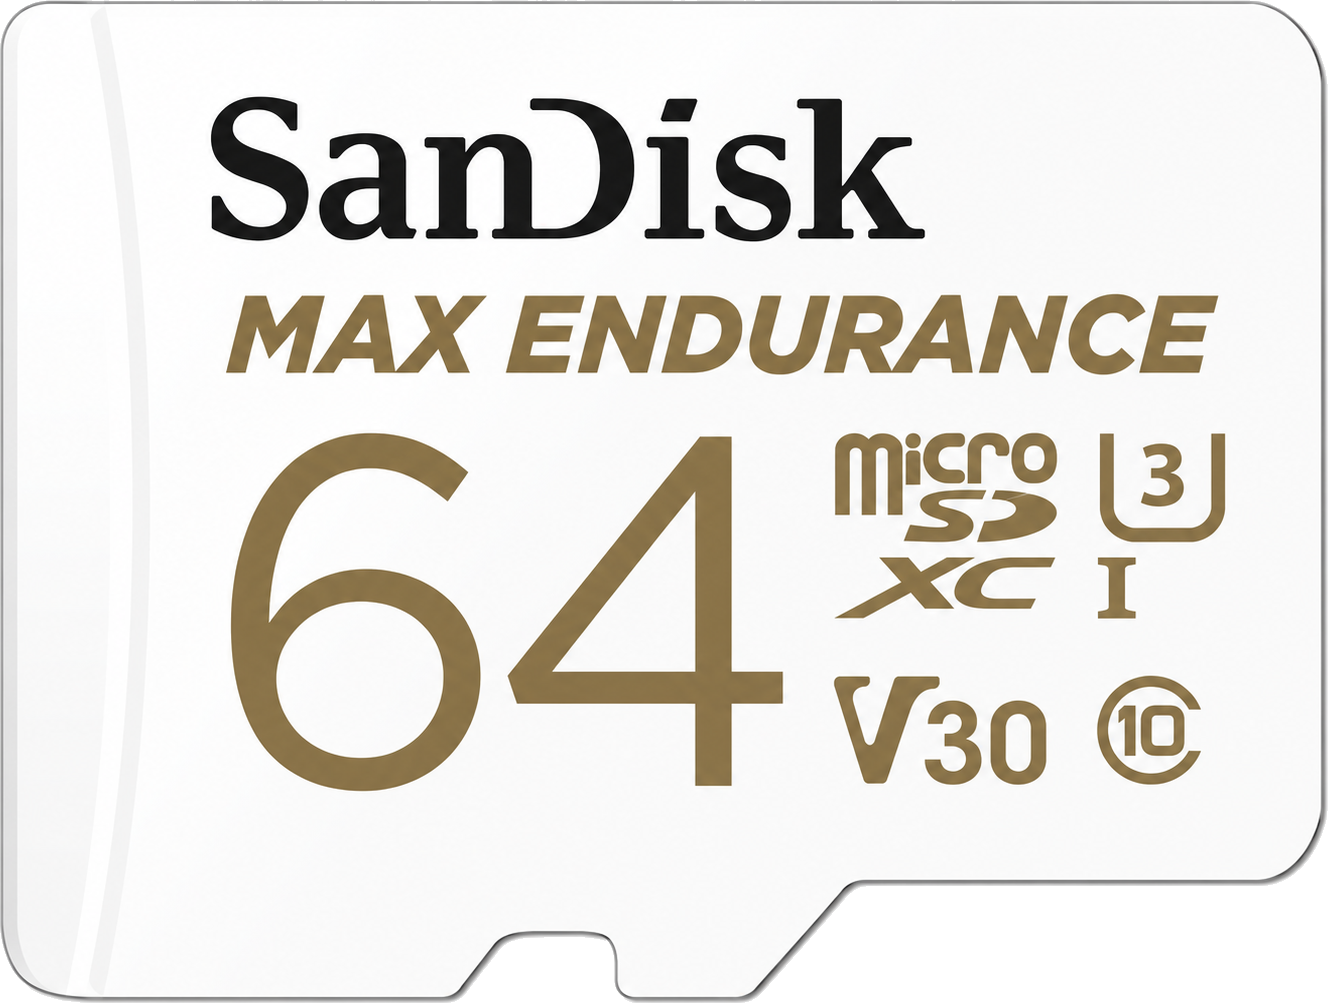
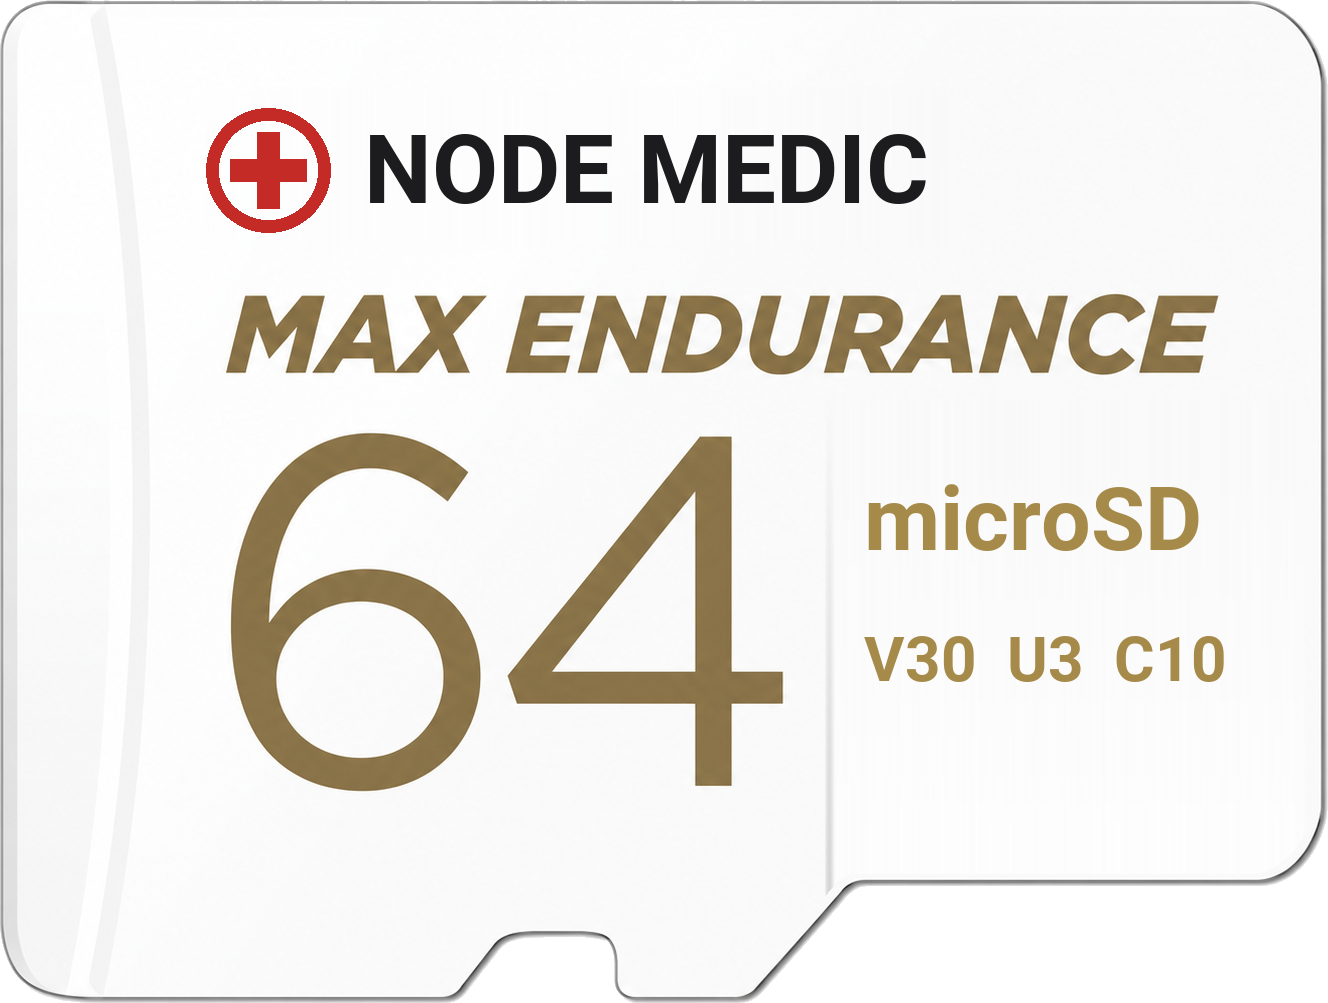
art: no third-party branding on the card, and a real Pi where there was a black square
Two things the operator caught on the glass.

THE SD CARD. "I'm not sure if we're allowed to use a company's name ... no
proprietary names that we haven't got any permission from". The art carried a
manufacturer's wordmark and the SD Association's stylised logo cluster. What
the picture is FOR survives without either: the operator has to recognise a
high-endurance card and know the class to buy.

  * the wordmark becomes Node Medic's own mark — our cross, our name, so the
    card still reads as a branded product and the brand is ours;
  * "MAX ENDURANCE" stays: on a node that writes to its card for years it is
    the most important thing on the label;
  * the logo cluster becomes plain text — same facts, none of the marks.

scripts/rebrand_sd_card.py does it, re-runnably, from the original in git.
Two earlier attempts showed on the panel and were fixed by looking: a flat
fill left a brighter rectangle (the art has a gradient), then a left-margin
sample fixed rows but not columns and left a vertical seam. The fill is now
taken from the card itself above and below the band, per column, feathered at
the edges, and clipped to an eroded face mask so it can never paint over the
card's own border.

THE CARD-HANDOVER STEP. "the SD card is just a blue square and the Raspberry
Pi is a black square". True — with a 3 B+ selected, the one model with slot
geometry and no photo, the honest-fallback rule ("never draw a Pi we have not
[…]

Changed region(s): [[0.6175, 0.4327, 0.9262, 0.8036], [0.1544, 0.0927, 0.7101, 0.2473], [0.6175, 0.8036, 0.6483, 0.8654]]

diff --git a/ui/widgets/birth_anims.py b/ui/widgets/birth_anims.py
@@ -269,6 +269,64 @@ def _card_texture():
     return _texture(SD_ENDURANCE_PNG) or _texture(SD_PNG)
 
 
+def _draw_pi_board(x, y, w, h):
+    """A Raspberry Pi drawn as a SCHEMATIC, for the models we have no photo of.
+
+    Operator, 2026-09-09, photographing the card-handover step with a 3 B+
+    selected: "the SD card is just a blue square and the Raspberry Pi is a
+    black square". They are right — the honest-fallback rule ("never draw a Pi
+    we have not confirmed") had been read as "draw a grey rectangle", and a
+    grey rectangle teaches nothing at all.
+
+    A schematic board breaks no rule: it says A Raspberry Pi, not THIS model.
+    Green PCB, gold mounting holes, a 40-pin header along the top edge, the SoC
+    and a memory die, and port blocks on one side — the features every Pi in
+    the range shares, at flat-colour fidelity that could not be mistaken for a
+    photograph of a particular board.
+
+    pi_3b_plus is the one model with slot geometry and no artwork, so this is
+    what its two card steps draw until a photo of one exists.
+    """
+    green = (0.13, 0.44, 0.20, 1)
+    gold = (0.83, 0.68, 0.22, 1)
+    silver = (0.72, 0.74, 0.76, 1)
+    dark = (0.10, 0.10, 0.11, 1)
+    Color(*green)
+    RoundedRectangle(pos=(x, y), size=(w, h), radius=[min(w, h) * 0.06] * 4)
+    # 40-pin header along the top edge
+    Color(*gold)
+    pins, pad = 20, w * 0.055
+    run = w - pad * 2
+    step = run / float(pins)
+    r = min(step * 0.34, h * 0.028)
+    for row in range(2):
+        cy = y + h - h * (0.11 + row * 0.075)
+        for i in range(pins):
+            cx = x + pad + step * (i + 0.5)
+            Ellipse(pos=(cx - r, cy - r), size=(r * 2, r * 2))
+    # mounting holes, one per corner
+    hr = min(w, h) * 0.045
+    for hx, hy in ((x + w * 0.06, y + h * 0.10), (x + w * 0.94, y + h * 0.10),
+                   (x + w * 0.06, y + h * 0.90), (x + w * 0.94, y + h * 0.90)):
+        Color(*gold)
+        Ellipse(pos=(hx - hr, hy - hr), size=(hr * 2, hr * 2))
+        Color(0, 0, 0, 1)
+        Ellipse(pos=(hx - hr * 0.45, hy - hr * 0.45), size=(hr * 0.9, hr * 0.9))
+    # the SoC, and a smaller die beside it
+    Color(*dark)
+    sw = min(w * 0.17, h * 0.30)
+    RoundedRectangle(pos=(x + w * 0.34, y + h * 0.38), size=(sw, sw),
+                     radius=[dp(2)] * 4)
+    Color(*silver)
+    RoundedRectangle(pos=(x + w * 0.56, y + h * 0.44), size=(sw * 0.72, sw * 0.6),
+                     radius=[dp(2)] * 4)
+    # port blocks along the bottom edge
+    Color(*silver)
+    for i in range(2):
+        RoundedRectangle(pos=(x + w * (0.30 + i * 0.30), y + h * 0.03),
+                         size=(w * 0.22, h * 0.14), radius=[dp(2)] * 4)
+
+
 class _CardStage(_LoopAnim):
     """Shared plumbing for the two steps that put a card into a Raspberry Pi.
 
@@ -751,18 +809,35 @@ class RadioToPiAnim(ConnectBoardAnim):
         # the stage and sized to leave that space. Centred and large, the first
         # build drew the radio below the widget's own bottom edge, where a
         # canvas simply stops (read off the glass, 2026-09-09).
+        # THE PI AND THE RADIO SHARE THE PICTURE, and the pair is what gets
+        # centred. Sizing the Pi alone and hanging it from the top left the
+        # radio whatever was underneath — on the panel that was a third of a
+        # board and the operator took it for an SD card, and on a wide stage it
+        # left the whole scene stranded up in one corner (2026-09-09).
         pa = pi_tex.width / float(pi_tex.height)
+        ba = board_tex.width / float(board_tex.height)
         side = self._geo.approach == "right"
         if side:
-            pw = min(w * 0.52, (h * 0.86) * pa)
+            pw = min(w * 0.46, (h * 0.86) * pa)
             ph = pw / pa
-            px = x + dp(8)
+        else:
+            ph = min(h * 0.38, (w * 0.72) / pa)
+            pw = ph * pa
+        # A RAK4631 is about four fifths of a Pi Zero along its longest side in
+        # real life; roughly half is as small as this may go before it stops
+        # reading as a board at all.
+        radio_box = min(h * 0.50, w * 0.32, max(pw, ph) * 0.85)
+        radio_w, radio_h = ((radio_box, radio_box / ba) if ba >= 1.0
+                            else (radio_box * ba, radio_box))
+        reach = min(h * 0.07, dp(24))
+        if side:
+            group = pw + reach + radio_w
+            px = x + (w - group) / 2.0
             py = y + (h - ph) / 2.0
         else:
-            ph = min(h * 0.50, (w * 0.86) / pa)
-            pw = ph * pa
+            group = ph + reach + radio_h
             px = x + (w - pw) / 2.0
-            py = y + h - ph - dp(4)                  # hung from the top
+            py = y + (h + min(group, h)) / 2.0 - ph
         data, power = self._socket_pts(px, py, pw, ph)
         # Which way a plug sits OUT of each socket: the reverse of how it
         # comes in. "bottom" boards are entered from below, "right" ones from
@@ -805,11 +880,7 @@ class RadioToPiAnim(ConnectBoardAnim):
                 # Longest side into one box — see ConnectBoardAnim._draw:
                 # sizing by height alone shrinks portrait board art to a third
                 # of the area of a landscape photo of the same board.
-                ba = board_tex.width / float(board_tex.height)
-                _box = min(h * 0.26, w * 0.34)
-                bw, bh = ((_box, _box / ba) if ba >= 1.0
-                          else (_box * ba, _box))
-                reach = min(h * 0.12, dp(46))
+                bw, bh = radio_w, radio_h
                 bx = data[0] + away[0] * (reach + bw * 0.5) - bw / 2 \
                     + away[0] * dp(30) * (1.0 - e)
                 by = data[1] + away[1] * (reach + bh * 0.5) - bh / 2 \
@@ -1653,11 +1724,21 @@ class InsertSdIntoPiAnim(_CardStage):
         travel = travel * travel * (3.0 - 2.0 * travel)
         cw, ch = w * 0.12, h * 0.16
         cx = self.x + w * 0.05 + (bx - cw * 0.5 - (self.x + w * 0.05)) * travel
+        card_tex = _card_texture()
         with self.canvas:
-            Color(*theme.hex_to_rgba(theme.COLORS["surface"]))
-            Rectangle(pos=(bx, by), size=(bw, bh))
-            Color(*theme.hex_to_rgba(theme.COLORS["accent"]))
-            Rectangle(pos=(cx, by + bh / 2 - ch / 2), size=(cw, ch))
+            _draw_pi_board(bx, by, bw, bh)
+            if card_tex is not None:
+                # THE REAL CARD. It is the same card whatever the board is, so
+                # there was never a reason to draw it as a blue rectangle.
+                ca = card_tex.width / float(card_tex.height)
+                ch2 = h * 0.22
+                cw2 = ch2 * ca
+                Color(1, 1, 1, 1)
+                Rectangle(texture=card_tex,
+                          pos=(cx, by + bh / 2 - ch2 / 2), size=(cw2, ch2))
+            else:
+                Color(*theme.hex_to_rgba(theme.COLORS["accent"]))
+                Rectangle(pos=(cx, by + bh / 2 - ch / 2), size=(cw, ch))
 
 
 class SdHandoverAnim(_CardStage):
@@ -1765,6 +1846,7 @@ class SdHandoverAnim(_CardStage):
         t = min(1.0, self.phase * 1.25)
         t = t * t * (3.0 - 2.0 * t)
         cw, ch = w * 0.09, h * 0.20
+        card_tex = _card_texture()
         start = x + w * 0.30
         cx = start + (bx - cw * 0.4 - start) * t
         with self.canvas:
@@ -1774,11 +1856,18 @@ class SdHandoverAnim(_CardStage):
                 Color(1, 1, 1, 1)
                 Rectangle(texture=medic, pos=(x + dp(2), y + (h - mh) / 2.0),
                           size=(mw, mh))
-            Color(*theme.hex_to_rgba(theme.COLORS["surface"]))
-            RoundedRectangle(pos=(bx, by), size=(bw, bh), radius=[dp(6)] * 4)
-            Color(*theme.hex_to_rgba(theme.COLORS["accent"]))
-            RoundedRectangle(pos=(cx, y + (h - ch) / 2.0), size=(cw, ch),
-                             radius=[dp(3)] * 4)
+            _draw_pi_board(bx, by, bw, bh)
+            if card_tex is not None:
+                ca = card_tex.width / float(card_tex.height)
+                ch2 = h * 0.24
+                cw2 = ch2 * ca
+                Color(1, 1, 1, 1)
+                Rectangle(texture=card_tex, pos=(cx, y + (h - ch2) / 2.0),
+                          size=(cw2, ch2))
+            else:
+                Color(*theme.hex_to_rgba(theme.COLORS["accent"]))
+                RoundedRectangle(pos=(cx, y + (h - ch) / 2.0), size=(cw, ch),
+                                 radius=[dp(3)] * 4)
 
 
 class ConnectPiAnim(ConnectBoardAnim):

diff --git a/scripts/rebrand_sd_card.py b/scripts/rebrand_sd_card.py
@@ -1,0 +1,126 @@
+"""Make the SD-card illustration carry no third-party branding.
+
+The operator, 2026-09-09, reading the imaging screen off the panel: "just to
+be safe legally I'm not sure if we're allowed to use a company's name, so
+let's remove SanDisk ... no proprietary names that we haven't got any
+permission from".
+
+The source art was a rendering of the operator's own card, and it carried
+that manufacturer's wordmark plus the SD Association's stylised logo cluster
+(microSDXC, U3, V30, C10). Both are other people's marks. What the picture is
+FOR survives without either: the operator has to recognise a high-endurance
+card and know the class to buy, and words say that as well as logos do.
+
+  * the manufacturer wordmark becomes Node Medic's own mark — our cross, our
+    name, so the card still reads as a branded product and the brand is ours;
+  * "MAX ENDURANCE" stays. It is a description of the card type, which is the
+    single most important thing on the label for a node that writes to its
+    card for years (see ui/sd_reliability notes);
+  * the logo cluster becomes plain text: the same information, none of the
+    stylised marks.
+
+Re-runnable: it works from the ORIGINAL art, which stays in git history.
+"""
+import os
+import sys
+
+from PIL import Image, ImageDraw, ImageFont
+
+CARD = os.path.join(os.path.dirname(os.path.dirname(os.path.abspath(__file__))),
+                    "assets", "ui", "anim", "sd_card_endurance.png")
+
+RED = (196, 42, 38, 255)
+GOLD = (166, 138, 74, 255)
+DARK = (28, 28, 30, 255)
+
+
+def _font(size):
+    """A face that exists on the medic as well as here, so a re-run on either
+    machine produces the same card. Kivy ships Roboto-Bold with itself; the
+    DejaVu bold it also names is NOT in the wheel, which is worth knowing
+    before writing a path from memory."""
+    import kivy
+    d = os.path.join(os.path.dirname(kivy.__file__), "data", "fonts")
+    return ImageFont.truetype(os.path.join(d, "Roboto-Bold.ttf"), size)
+
+
+def _face_mask(im):
+    """Where the CARD FACE is, with its dark outline and the transparent
+    surround excluded.
+
+    Painting a plain rectangle put white over the card's own edge and out into
+    the space beside it — the card came back with a slab hanging off its
+    right-hand side. The face is the alpha mask eroded by more than the
+    outline is thick, so nothing this script draws can reach the border.
+    """
+    from PIL import ImageFilter
+    a = im.split()[3].point(lambda v: 255 if v > 250 else 0)
+    for _ in range(3):
+        a = a.filter(ImageFilter.MinFilter(9))     # ~12 px in, well past the rim
+    return a
+
+
+def _wipe(im, box, face):
+    """Clear a band back to the card face, and leave no seam.
+
+    Two earlier tries showed up immediately on the panel. A flat white fill
+    left a brighter rectangle, because the art carries a faint gradient. Then
+    sampling one clean strip from the LEFT margin fixed the rows but not the
+    columns, so a vertical seam appeared down the right-hand side of the wipe.
+
+    So the fill is taken from the card ITSELF, just above and just below the
+    band, per column, and interpolated down — whatever gradient the art has in
+    either direction is reproduced rather than approximated. Nothing is drawn
+    outside *face*, so the card's own edge is never painted over.
+    """
+    x0, y0, x1, y1 = box
+    px = im.load()
+    fp = face.load()
+    top = {x: px[x, max(0, y0 - 6)] for x in range(x0, x1)}
+    bot = {x: px[x, min(im.size[1] - 1, y1 + 6)] for x in range(x0, x1)}
+    span = float(max(1, y1 - y0))
+    feather = 10.0            # blend the fill into the art at the boundary,
+    for y in range(y0, y1):   # or the box's own edge draws a faint line
+        f = (y - y0) / span
+        for x in range(x0, x1):
+            if not fp[x, y]:
+                continue
+            a, b = top[x], bot[x]
+            fill = (a[0] + (b[0] - a[0]) * f,
+                    a[1] + (b[1] - a[1]) * f,
+                    a[2] + (b[2] - a[2]) * f)
+            edge = min(x - x0, x1 - 1 - x, y - y0, y1 - 1 - y) / feather
+            k = 1.0 if edge >= 1.0 else edge
+            cur = px[x, y]
+            px[x, y] = (int(cur[0] + (fill[0] - cur[0]) * k),
+                        int(cur[1] + (fill[1] - cur[1]) * k),
+                        int(cur[2] + (fill[2] - cur[2]) * k), 255)
+
+
+def main(path=CARD):
+    im = Image.open(path).convert("RGBA")
+    face = _face_mask(im)
+    d = ImageDraw.Draw(im)
+
+    # --- the manufacturer wordmark -> our own mark ---------------------
+    _wipe(im, (200, 86, 962, 252), face)
+    cx, cy, r = 268, 170, 62
+    d.ellipse([cx - r, cy - r, cx + r, cy + r], outline=RED, width=13)
+    d.rectangle([cx - 11, cy - 38, cx + 11, cy + 38], fill=RED)
+    d.rectangle([cx - 38, cy - 11, cx + 38, cy + 11], fill=RED)
+    d.text((cx + r + 34, cy), "NODE MEDIC", font=_font(96), fill=DARK,
+           anchor="lm")
+
+    # --- the stylised class logos -> the same facts, in words ----------
+    _wipe(im, (824, 392, 1310, 906), face)
+    # Two lines, not three: the big "64" already says the size, and a third
+    # line pushed the block into the card's rounded corner.
+    d.text((864, 520), "microSD", font=_font(88), fill=GOLD, anchor="lm")
+    d.text((864, 660), "V30  U3  C10", font=_font(62), fill=GOLD, anchor="lm")
+    im.save(path)
+    print(f"rebranded {os.path.basename(path)}")
+
+
+if __name__ == "__main__":
+    main(*sys.argv[1:])
+

diff --git a/ui/screens/birth_guide_screen.py b/ui/screens/birth_guide_screen.py
@@ -2299,6 +2299,7 @@ class BirthGuideScreen(BoxLayout):
         """
         from kivy.clock import Clock
         self._stop_card_poll()
+        self._card_poll_blind = False
 
         def tick(_dt):
             import threading
@@ -2308,8 +2309,14 @@ class BirthGuideScreen(BoxLayout):
                 try:
                     from provisioning import pi_imager
                     gone = pi_imager.card_status()["state"] == "none"
+                    self._card_poll_blind = False
                 except Exception:                                  # noqa: BLE001
                     gone = False                    # can't tell -> don't advance
+                    # ...and SAY SO. The step shows no button, because the
+                    # medic watches the reader itself; that promise only holds
+                    # while it can actually see. A reader that stops answering
+                    # is the one case where the operator needs a way forward.
+                    self._card_poll_blind = True
                 if gone:
                     Clock.schedule_once(lambda _d: self._on_card_gone(anim), 0)
 
@@ -2927,11 +2934,29 @@ class BirthGuideScreen(BoxLayout):
             # the green button and just let the Node Medic do the work").
             step.hide_next()
             self._start_card_gone_poll(anim)
+            # NO PATIENCE-TIMER BUTTON HERE (operator, 2026-09-09, with this
+            # screen in front of them: "the next button on the screen that
+            # tells user to remove sd card from medic and insert in pi can be
+            # removed as the medic moves to next screen when it registers the
+            # sd has been removed").
+            #
+            # It is the same rule they set on 2026-08-10, and this step obeys
+            # it better than the connect steps can: taking the card OUT is
+            # something the medic watches directly, once a second, in its own
+            # reader — there is no boot to wait through and no second road the
+            # card could have taken. A button that appears after two and a
+            # half minutes says "the tool has given up on seeing this", which
+            # is not true.
+            #
+            # The escape hatch is kept for the one case where the medic really
+            # cannot look: if the reader itself stops answering, the poll says
+            # so and the button comes back (see _start_card_gone_poll).
             from kivy.clock import Clock
             tok = getattr(self, "_nav_token", 0)
             Clock.schedule_once(
                 lambda _d: (getattr(self, "_nav_token", None) == tok
                             and self._current is step
+                            and getattr(self, "_card_poll_blind", False)
                             and step.show_next()), self.WAIT_PATIENCE_S)
         if back_arrival and self._current is step:
             # ARRIVED WALKING BACKWARD. The hides above exist because the
